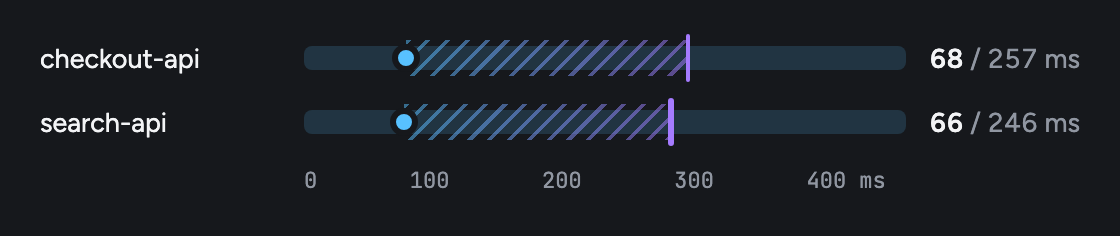
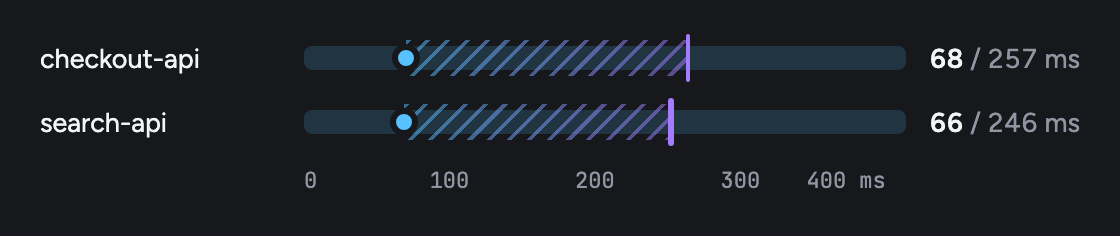
fix(range): cada marca del eje en la posición de su valor
Las marcas se repartían parejas sin mirar su valor: con ticks desparejos, o
con p95 de 257 sobre una escala de 400, la barra parecía terminar cerca de 290.
Ahora usan la misma cuenta que las barras, y una marca fuera de [min, max] no
se dibuja. Cambia range-demo (anotado) y las capturas de range.

Changed region(s): [[0.5938, 0.7119, 0.6875, 0.8008], [0.4688, 0.7119, 0.5625, 0.8008], [0.3438, 0.7119, 0.4375, 0.8008]]

diff --git a/src/charts/range.js b/src/charts/range.js
@@ -12,6 +12,8 @@ export const range = o => {
   const u = o.unit || ''
   const min = num(o.min)
   const pos = v => n1(entre((v - min) / (o.max - min)) * 100)
+  // Una marca fuera de [min, max] no se dibuja: estaría mintiendo sobre dónde cae ese valor.
+  const marcas = (o.ticks || [min, o.max]).filter(t => valor(t) !== null && valor(t) >= min && valor(t) <= o.max)
 
   return '<div class="sc-chart sc-range" style="' + (o.hue ? '--c:' + col(o.hue) + ';' : '') + (o.hue2 ? '--c2:' + col(o.hue2) : '') + '">' +
     o.rows.map((r, i) => (valor(r.from) === null || valor(r.to) === null)
@@ -22,6 +24,12 @@ export const range = o => {
         '<div class="sc-bar"><div class="sc-ref sc-a-x" style="left:' + pos(r.from) + '%;width:' + n1(pos(r.to) - pos(r.from)) + '%"><i class="sc-hfill"></i></div><div class="sc-dot" style="left:' + pos(r.from) + '%"></div></div>' +
         '<span class="sc-v"><b>' + esc(r.from) + '</b> / ' + esc(conUnidad(r.to, u)) + '</span></div>'
     ).join('') +
-    '<div class="sc-axis"><span></span><div>' + (o.ticks || [min, o.max]).map((t, i, todos) => '<span>' + esc(i === todos.length - 1 ? conUnidad(t, u) : t) + '</span>').join('') + '</div><span class="sc-v"><b>000</b> / ' + esc(conUnidad('000', u)) + '</span></div>' +
+    '<div class="sc-axis"><span></span><div>' + marcas.map((t, i, todos) => {
+      // Cada marca en la posición de su valor, con la misma cuenta que las barras. La de un borde
+      // se apoya hacia adentro para no salirse.
+      const p = pos(t)
+
+      return '<span style="left:' + p + '%' + (p === 0 ? '' : p === 100 ? ';translate:-100% 0' : ';translate:-50% 0') + '">' + esc(i === todos.length - 1 ? conUnidad(t, u) : t) + '</span>'
+    }).join('') + '</div><span class="sc-v"><b>000</b> / ' + esc(conUnidad('000', u)) + '</span></div>' +
   '</div>'
 }

diff --git a/test/unit/graficos.test.js b/test/unit/graficos.test.js
@@ -470,7 +470,15 @@ test('range con min: la escala y el eje van de min a max', () => {
 
   expect(html).toContain('left:25%;width:50%')
   expect(html).toContain('left:0%;width:100%')
-  expect(html).toContain('<span>100</span>')
+  expect(html).toContain('<span style="left:0%">100</span>')
+})
+
+test('range: cada marca del eje va en la posición de su valor; las de afuera no se dibujan', () => {
+  const html = SC.range({ min: 50, max: 300, ticks: [0, 50, 100, 200, 300, 400], unit: 'ms', rows: [{ label: 'a', from: 60, to: 250 }] })
+  const eje = html.split('class="sc-axis"')[1]
+  const marcas = [...eje.matchAll(/<span style="left:([\d.]+)%[^"]*">([^<]*)<\/span>/g)].map(m => [Number(m[1]), m[2]])
+
+  expect(marcas).toEqual([[0, '50'], [20, '100'], [60, '200'], [100, '300 ms']])
 })
 
 describe('state y legend', () => {

diff --git a/src/charts.css b/src/charts.css
@@ -185,7 +185,8 @@
   .sc-range .sc-v { color: var(--sc-muted); white-space: nowrap; }
   .sc-range .sc-v b { color: var(--sc-text); font-weight: 600; }
   .sc-axis { font: 11px/1 var(--sc-mono); color: var(--sc-muted); }
-  .sc-axis div { display: flex; justify-content: space-between; }
+  .sc-axis div { position: relative; height: 11px; }
+  .sc-axis div span { position: absolute; top: 0; white-space: nowrap; }
   .sc-axis .sc-v { visibility: hidden; font: 13.5px/1 var(--sc-font); }
 
   /* Las reglas por ancho van AL FINAL de la hoja: pesan lo mismo que las reglas base, y entre
